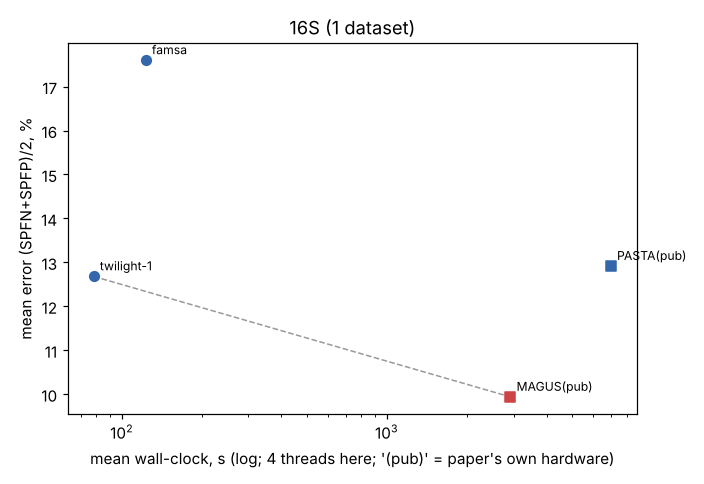
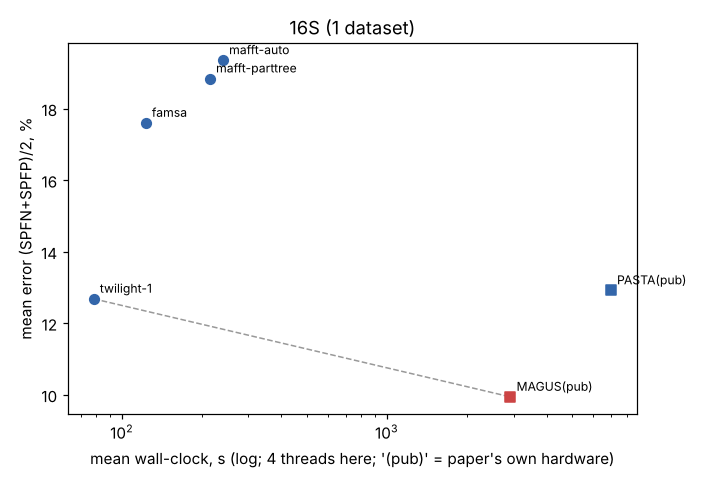
sota2026: merge pilot (fix DNA case bug), BAliBASE/16S.T results, merge table
Claude-Session: https://claude.ai/code/session_012Rgpxy2uEEPz2XSy4Tz17n

diff --git a/cs581/sota2026/code/analyze.py b/cs581/sota2026/code/analyze.py
@@ -124,17 +124,20 @@ def full():
         pts = {}
         for c in cols:
             have = [d for d in dss if (d, c) in err]
-            if len(have) < len(dss) or not have:
+            if not have:
                 continue
             ws = [wall.get((d, c)) for d in have]
             if any(w is None for w in ws):
                 continue
-            pts[c] = (statistics.mean(ws), statistics.mean(err[(d, c)] for d in have))
+            label = c if len(have) == len(dss) else "{} (n={})".format(c, len(have))
+            pts[label] = (statistics.mean(ws), statistics.mean(err[(d, c)] for d in have))
         if not pts:
             continue
         fig, ax = plt.subplots(figsize=(6.4, 4.4))
         front, best = [], float("inf")
         for c, (x, y) in sorted(pts.items(), key=lambda kv: kv[1][0]):
+            if "n=" in c:  # partial coverage: not comparable enough for the front
+                continue
             if y < best:
                 front.append((x, y))
                 best = y
@@ -201,3 +204,36 @@ def subsets():
 if __name__ == "__main__":
     full()
     subsets()
+
+
+def merge_pilot():
+    path = os.path.join(RES, "merge_pilot.jsonl")
+    if not os.path.exists(path):
+        return
+    rows = [r for r in map(json.loads, open(path)) if r["status"] == "ok"]
+    ctl = {r["rep"]: r for r in rows if r["tool"] == "cached-linsi"}
+    out = ["## MAGUS with a different base method (merge pilot)\n",
+           "Same MAGUS decomposition (25 subsets) and the same 10 MAFFT L-INS-i backbones as MAGUS's own run; "
+           "only the subset aligner changes, then MAGUS's GCM merge (paper flags). Control = MAGUS's own "
+           "L-INS-i subsets (reproduces MAGUS(4c)). Errors in %, Δ in points (negative = better than MAGUS).\n",
+           "| rep | base method | subset err (mean of 25) | MAGUS final err | Δ final vs control | subset align s (1 core) |",
+           "|---|---|---|---|---|---|"]
+    deltas = collections.defaultdict(list)
+    for r in sorted(rows, key=lambda r: (r["rep"], r["tool"] != "cached-linsi", r["tool"])):
+        c = ctl.get(r["rep"])
+        d = 100 * (r["avgErr"] - c["avgErr"]) if c else float("nan")
+        if r["tool"] != "cached-linsi" and c:
+            deltas[(dtype(r["rep"]), r["tool"])].append(d)
+        out.append("| {} | {} | {:.2f} | {:.2f} | {} | {} |".format(
+            r["rep"], "L-INS-i (MAGUS's own)" if r["tool"] == "cached-linsi" else r["tool"], 100 * r["subset_err_mean"],
+            100 * r["avgErr"], "–" if r["tool"] == "cached-linsi" else "{:+.2f}".format(d),
+            "–" if r["tool"] == "cached-linsi" else "{:.0f}".format(r["subset_wall"])))
+    out += ["", "| data | base method | n | mean Δ | better/tie/worse |", "|---|---|---|---|---|"]
+    for (g, t), ds in sorted(deltas.items()):
+        w, l = sum(x < -TIE for x in ds), sum(x > TIE for x in ds)
+        out.append("| {} | {} | {} | {:+.2f} | {}/{}/{} |".format(g, t, len(ds), statistics.mean(ds), w,
+                                                                   len(ds) - w - l, l))
+    open(os.path.join(RES, "merge_table.md"), "w").write("\n".join(out) + "\n")
+
+
+merge_pilot()

diff --git a/cs581/sota2026/code/twilight_iter.py b/cs581/sota2026/code/twilight_iter.py
@@ -55,8 +55,9 @@ def main():
     unal, out, threads, work = sys.argv[1], sys.argv[2], sys.argv[3], sys.argv[4]
     iters = int(sys.argv[5]) if len(sys.argv) > 5 else 3
     os.makedirs(work, exist_ok=True)
-    letters = set("".join(read(unal).values()).upper())
-    model = ["-gtr", "-nt"] if len(letters - set("ACGTUN-")) <= 2 else []
+    allseq = "".join(read(unal).values()).upper()
+    nt = sum(allseq.count(c) for c in "ACGTUN") / max(1, len(allseq))
+    model = ["-gtr", "-nt"] if nt > 0.9 else []  # 16S has IUPAC ambiguity codes: use the ACGTUN fraction
     seq = os.path.join(work, "seqs.fa")
     with open(seq, "w") as f:  # mafft2nwk maps PartTree's 1-based indices back to names in input order
         for n, s in read(unal).items():

diff --git a/cs581/sota2026/code/merge_pilot.py b/cs581/sota2026/code/merge_pilot.py
@@ -46,6 +46,8 @@ def realign(tool, src_dir, dst_dir, threads, work):
         shutil.rmtree(tw, ignore_errors=True)
         if r["status"] != "ok":
             raise RuntimeError("{} failed on {}: {}".format(tool, f, r["status"]))
+        # MAFFT writes DNA in lower case; GCM matches backbone and subset letters case-sensitively
+        fasta.write(fasta.upper(fasta.read(dst)), dst)
         total += r["wall"]
     return total
 

diff --git a/cs581/sota2026/results/merge_table.md b/cs581/sota2026/results/merge_table.md
@@ -1,0 +1,30 @@
+## MAGUS with a different base method (merge pilot)
+
+Same MAGUS decomposition (25 subsets) and the same 10 MAFFT L-INS-i backbones as MAGUS's own run; only the subset aligner changes, then MAGUS's GCM merge (paper flags). Control = MAGUS's own L-INS-i subsets (reproduces MAGUS(4c)). Errors in %, Δ in points (negative = better than MAGUS).
+
+| rep | base method | subset err (mean of 25) | MAGUS final err | Δ final vs control | subset align s (1 core) |
+|---|---|---|---|---|---|
+| 1000L3_R0 | L-INS-i (MAGUS's own) | 6.22 | 11.28 | – | – |
+| 1000M2_R0 | L-INS-i (MAGUS's own) | 3.88 | 8.23 | – | – |
+| 16S.M_R0 | L-INS-i (MAGUS's own) | 6.97 | 12.86 | – | – |
+| BBA0067_R0 | L-INS-i (MAGUS's own) | 19.44 | 26.28 | – | – |
+| BBA0067_R0 | clustalo | 18.93 | 25.97 | -0.31 | 4 |
+| BBA0067_R0 | mafft-ginsi | 19.40 | 26.20 | -0.09 | 16 |
+| BBA0067_R0 | muscle5 | 18.58 | 25.37 | -0.91 | 43 |
+| BBA0101_R0 | L-INS-i (MAGUS's own) | 16.37 | 29.19 | – | – |
+| BBA0101_R0 | clustalo | 16.00 | 29.00 | -0.19 | 7 |
+| BBA0101_R0 | mafft-ginsi | 16.28 | 29.32 | +0.14 | 19 |
+| BBA0101_R0 | muscle5 | 16.11 | 28.11 | -1.08 | 61 |
+| BBA0154_R0 | L-INS-i (MAGUS's own) | 7.95 | 21.66 | – | – |
+| BBA0154_R0 | clustalo | 7.47 | 21.16 | -0.50 | 6 |
+| BBA0154_R0 | mafft-ginsi | 8.06 | 21.65 | -0.01 | 16 |
+| BBA0154_R0 | muscle5 | 7.78 | 21.86 | +0.20 | 54 |
+| BBA0190_R0 | L-INS-i (MAGUS's own) | 7.26 | 23.40 | – | – |
+| BBA0190_R0 | mafft-ginsi | 7.40 | 23.55 | +0.15 | 34 |
+| RNASim_R0 | L-INS-i (MAGUS's own) | 4.92 | 9.92 | – | – |
+
+| data | base method | n | mean Δ | better/tie/worse |
+|---|---|---|---|---|
+| BAliBASE | clustalo | 3 | -0.33 | 3/0/0 |
+| BAliBASE | mafft-ginsi | 4 | +0.05 | 1/1/2 |
+| BAliBASE | muscle5 | 3 | -0.60 | 2/0/1 |

diff --git a/cs581/sota2026/results/full_table.md b/cs581/sota2026/results/full_table.md
@@ -16,7 +16,7 @@ MAGUS(pub)/PASTA(pub) = FastSP on the authors' published alignment of the same r
 | BBA0134_R0 | 18.7 (845s) |  | 20.4 (573s) | 33.2 (83s) | 32.8 (6s) | 28.3 (68s) | 29.8 (2s) | 25.2 (13s) |
 | BBA0154_R0 | 21.1 (562s) | 21.7 (1106s) | 22.5 (307s) | 25.3 (77s) | 25.4 (6s) | 26.3 (55s) | 25.7 (2s) | 25.1 (7s) |
 | BBA0190_R0 | 23.1 (1117s) | 23.4 (2177s) | 23.9 (879s) | 33.7 (97s) | 26.0 (16s) | 30.4 (80s) | 26.9 (4s) | 26.5 (18s) |
-| 16S.T_R0 | 9.9 (2918s) |  | 12.9 (6979s) | 17.6 (123s) | 12.7 (78s) |  |  |  |
+| 16S.T_R0 | 9.9 (2918s) |  | 12.9 (6979s) | 17.6 (123s) | 12.7 (78s) |  | 18.8 (215s) | 19.4 (241s) |
 
 ## Paired comparison vs published MAGUS(Fast), same replicate (Δ = tool − MAGUS, points; W/T/L = tool better/tie(±0.05)/worse; Wilcoxon signed-rank)
 
@@ -44,11 +44,13 @@ MAGUS(pub)/PASTA(pub) = FastSP on the authors' published alignment of the same r
 | BAliBASE | PASTA(pub) | 8 | +2.7 | 2/0/6 | 0.055 |
 | 16S | famsa | 1 | +7.7 | 0/0/1 | – |
 | 16S | twilight-1 | 1 | +2.7 | 0/0/1 | – |
+| 16S | mafft-parttree | 1 | +8.9 | 0/0/1 | – |
+| 16S | mafft-auto | 1 | +9.4 | 0/0/1 | – |
 | 16S | PASTA(pub) | 1 | +3.0 | 0/0/1 | – |
 | all | famsa | 12 | +14.9 | 0/0/12 | 0.00049 |
 | all | twilight-1 | 13 | +27.9 | 0/0/13 | 0.00024 |
 | all | twilight | 12 | +28.6 | 0/0/12 | 0.00049 |
-| all | mafft-parttree | 12 | +30.1 | 0/0/12 | 0.00049 |
-| all | mafft-auto | 12 | +27.6 | 0/0/12 | 0.00049 |
+| all | mafft-parttree | 13 | +28.5 | 0/0/13 | 0.00024 |
+| all | mafft-auto | 13 | +26.2 | 0/0/13 | 0.00024 |
 | all | MAGUS(4c) | 9 | +0.2 | 2/0/7 | 0.36 |
 | all | PASTA(pub) | 13 | +2.4 | 2/0/11 | 0.0024 |

diff --git a/cs581/sota2026/results/subset_table.md b/cs581/sota2026/results/subset_table.md
@@ -20,10 +20,12 @@
 | rand40 | twilight | 16 | 64.8 | +37.17 | 0/0/16 | 3.1e-05 | 11 |
 | rand40 | clustalo | 16 | 54.6 | +26.95 | 1/0/15 | 6.1e-05 | 4 |
 | rand40 | mafft-auto | 16 | 34.0 | +6.41 | 6/1/9 | 0.12 | 28 |
-| bb200 | cached-linsi | 1 | 30.8 | -0.27 | 1/0/0 | – | – |
-| bb200 | mafft-linsi-magus | 1 | 31.0 | +0.00 | 0/1/0 | – | 377 |
-| bb200 | mafft-ginsi | 1 | 33.4 | +2.34 | 0/0/1 | – | 350 |
-| bb200 | famsa | 1 | 94.1 | +63.06 | 0/0/1 | – | 4 |
+| bb200 | cached-linsi | 3 | 25.7 | -0.29 | 2/1/0 | – | – |
+| bb200 | mafft-linsi-magus | 3 | 26.0 | +0.00 | 0/3/0 | – | 370 |
+| bb200 | mafft-ginsi | 3 | 27.2 | +1.23 | 1/0/2 | – | 374 |
+| bb200 | famsa | 3 | 87.8 | +61.80 | 0/0/3 | – | 4 |
+| bb200 | twilight | 3 | 97.4 | +71.46 | 0/0/3 | – | 56 |
+| bb200 | clustalo | 3 | 84.2 | +58.24 | 0/0/3 | – | 131 |
 
 ### magus40 by data type (mean Δ vs L-INS-i, points)
 
